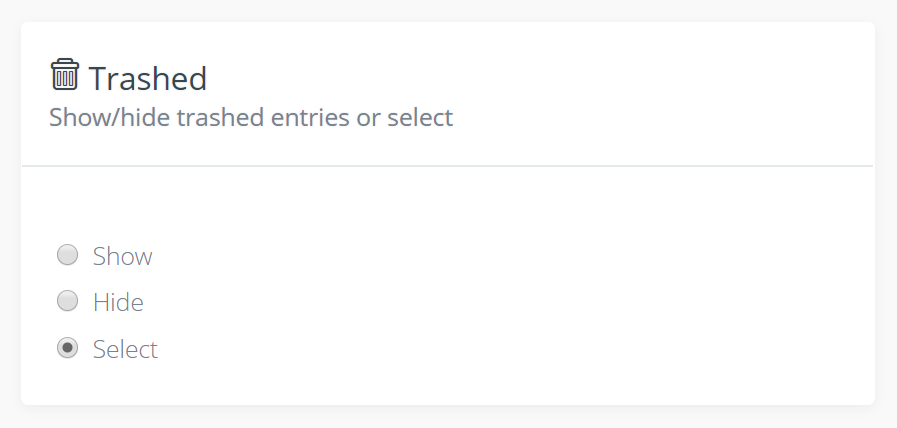
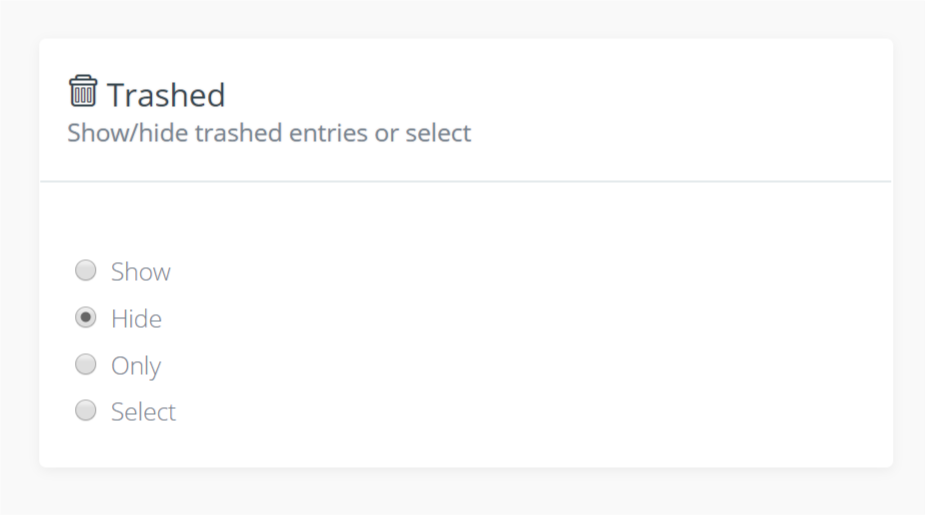
GitBook: [develop] 3 pages and one asset modified

diff --git a/docs/core-concepts/views.md b/docs/core-concepts/views.md
@@ -3,14 +3,14 @@
 A view is used for adding, editing and reading database entries.  
 It consist of multiple formfields which are assigned to different fields in your database table.
 
-### Adding a view
+## Adding a view
 
 After you created a BREAD for your table, you can add as many views to it as you want.  
 Just click the `Add View` button and you are prompted to enter the name of the view. The name can be anything you want.
 
-![](../.gitbook/assets/new_view.png)
+![](https://github.com/emptynick/voyager-bread/tree/099b50acdca3181aa6317dbfdcee2abce8b2d21b/docs/.gitbook/assets/new_view.png)
 
-### Adding a formfield
+## Adding a formfield
 
 After you created at least one view, you can now add formfields to it. To do so, just click `Add Formfield` and a dropdown with all possible options will open.  
 After you clicked the one you want, you can now change its options to your desire.
@@ -19,7 +19,7 @@ After you clicked the one you want, you can now change its options to your desir
 Make sure to assign the field \(the column in the database-table\) to your formfield, otherwise the formfield has no use.
 {% endhint %}
 
-### Resizing a formfield
+## Resizing a formfield
 
 You can resize the width of all formfields. Do this by clicking the arrow in the top right corner of the formfield.
 
@@ -27,6 +27,7 @@ You can resize the width of all formfields. Do this by clicking the arrow in the
 Be aware that this width will also be used for mobile users - so don't make formfields too small. Different sizes for different resolutions might come in a later version.
 {% endhint %}
 
-### Moving a formfield
+## Moving a formfield
 
 To move a formfield to another position, just click and hold the handle and drag it to the position where you want it to be.
+

diff --git a/docs/getting-started/configurations.md b/docs/getting-started/configurations.md
@@ -3,12 +3,12 @@
 After installing the hook you will find a configuration file under `config/bread.php`.  
 This file contains the following options:
 
-### bread\_path
+## bread\_path
 
 This is the path to the folder where all BREAD json files are stored and read from.  
 It defaults to `storage_path('bread')`
 
-### bread\_buttons
+## bread\_buttons
 
 ```php
 'bread_buttons' => [
@@ -23,4 +23,5 @@ Here you can decide which buttons will be displayed when editing/adding entries.
 
 `save_new` saves the entry and redirects to the add-page
 
-![](../.gitbook/assets/bread_buttons.png)
+![](https://github.com/emptynick/voyager-bread/tree/099b50acdca3181aa6317dbfdcee2abce8b2d21b/docs/.gitbook/assets/bread_buttons.png)
+

diff --git a/docs/core-concepts/soft-deletes.md b/docs/core-concepts/soft-deletes.md
@@ -10,5 +10,11 @@ In your lists you can select how soft-deleted entries are handled
 
 **Hide** hides trashed entries
 
+**Only** only shows trashed elements
+
 **Select** displays a select on the browse-page where your users can select what they want to show, either **show** them, **hide** trashed objects or **only** show trashed entries.
+
+{% hint style="warning" %}
+This will work in the same way when a list is used for a relationship **except** that you wont get the select. Make sure to either select **Show** or **Hide**!
+{% endhint %}
 
